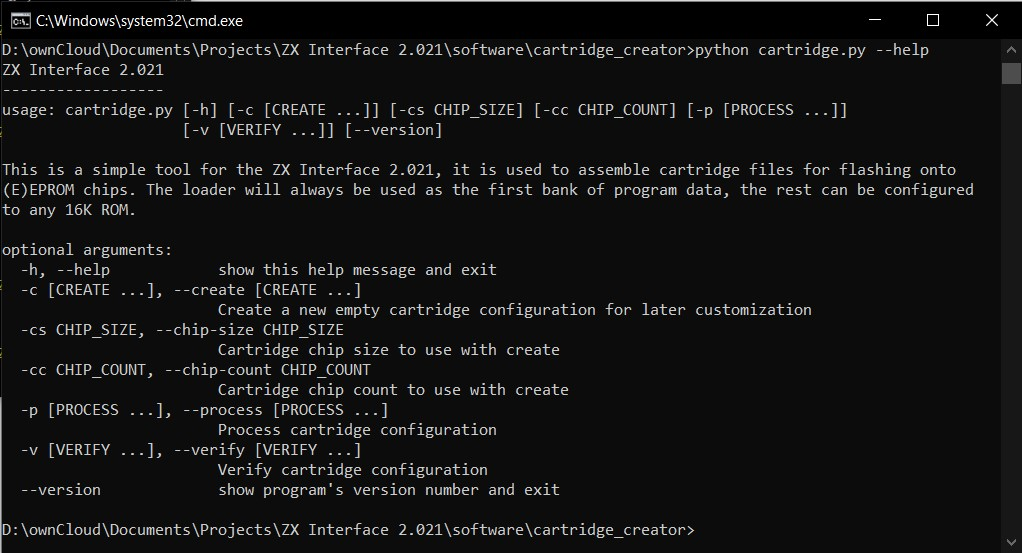
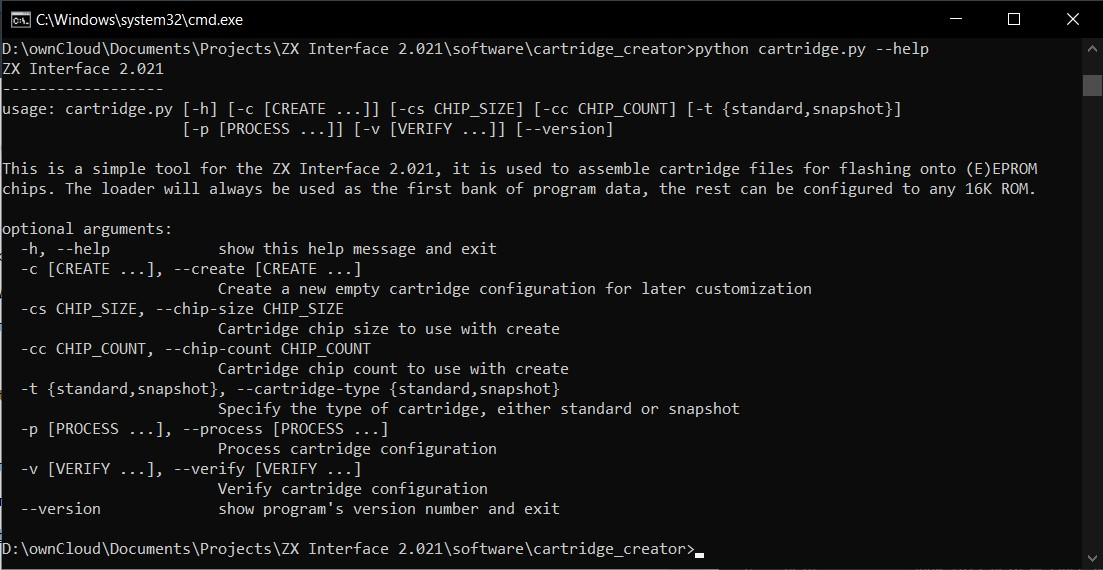
Updated README with snapshot details

diff --git a/software/cartridge_creator/README.md b/software/cartridge_creator/README.md
@@ -1,20 +1,22 @@
 # Cartridge Creator
-The *ZX Interface 2.021* supports more than a single 16K cartridge program, using a [bank switching](https://github.com/tebl/ZX-Interface-2.021/blob/main/documentation/bank_switching.md) technique implemented on the interface itself. However, the computer has no idea of how to deal with this and so the [Cartridge Loader](https://github.com/tebl/ZX-Interface-2.021/tree/main/software/cartridge_loader) program was created in order to sit in the first 16K bank and allow the user to select which of the banks the user wants to start. The *loader.rom* includes hardcoded areas set aside for things such as individual bank titles as well as other things such as fonts and a boot screen.
+The *ZX Interface 2.021* supports more than a single 16K cartridge program, using a [bank switching](https://github.com/tebl/ZX-Interface-2.021/blob/main/documentation/bank_switching.md) technique implemented on the interface itself. Unfortunately the computer has no concept of how to deal with bank switching by itself, so the we'll to add some sort of software to the machine to help it along.
 
-I did not want to change the assembly source every time I wanted to change some of these details, nor did I want the user to deal with installing an assembler and making them learning how to use it. The solution I came up with is the *Cartridge Creator*, which is for the most part just a fancy name for a [Python](https://www.python.org/) script I put together in order to automate the task of customizing a resulting cartridge.
+These are the various loader programs found within the repository, the first one is [Cartridge Loader](https://github.com/tebl/ZX-Interface-2.021/tree/main/software/cartridge_loader) and allows you to create compilations of 16K ROM files such as those released for the original ZX Interface 2 (complete with a boot screen and menu to select between them). The second one is the [Snapshot Loader](https://github.com/tebl/ZX-Interface-2.021/tree/main/software/snapshot_loader) and allows you to load and restore a snapshot file from the cartridge.
 
-Currently it supports generating a blank cartridge, with a specified count of (E)EPROMs the user want to install on their cartridge as well as the size of them (mixing sizes is not supported). You can verify an existing cartridge definition, such as those included in the repository, as well as process a definiton in order to generate Intel HEX-files that can be used when [flashing](https://github.com/tebl/ZX-Interface-2.021/blob/main/documentation/flash_eeprom.md) the chips.
+I did not want to change the assembly source every time I wanted to change out the program content or any of the settings, nor did I want the user to deal with installing an assembler and making them learning how to use it - the solution I came up with for all this is the *Cartridge Creator*. In reality it's just a fancy name for a [Python](https://www.python.org/) script, but it takes out a lot of the trial and error usually associated with trying to do all of this manually.
 
 - [1> Requirements](#1-requirements)
 - [2> Using the tools](#2-using-the-tools)
   - [2.1> Creating a blank cartridge](#21-creating-a-blank-cartridge)
+    - [2.1.1> Creating a standard cartridge](#211-creating-a-standard-cartridge)
+    - [2.1.2> Creating a snapshot cartridge](#212-creating-a-snapshot-cartridge)
   - [2.2> Verifying a cartridge](#22-verifying-a-cartridge)
   - [2.3> Processing cartridge](#23-processing-cartridge)
 
 # 1> Requirements
 The scripts do not require anything other than a standard installation of [Python](https://www.python.org/), it should be available for all of the modern operating systems. though I don't have the ability to test on anything other than my Windows laptop. There will be some Windows batch included in the project, you can use them if you prefer or you can have a look at their contents to determine what they're attempting to do. 
 
-The *Cartridge Creator* should come with everyting you need to use it, *loader,rom* as well as the fonts are from the [Cartridge Loader](https://github.com/tebl/ZX-Interface-2.021/tree/main/software/cartridge_loader) - that is also where you'll find source code can be found for these files. The batch files *assemble.bat* and *copy_loader.bat*, respectively take care of assembling the machine code as well as copy the resulting files into the expected locations. For regular use, unless you want to change parts of the code, you probably won't need to deal with these directly.
+The *Cartridge Creator* should come with everyting you need to use it, *loader.rom* as well as the fonts are from the [Cartridge Loader](https://github.com/tebl/ZX-Interface-2.021/tree/main/software/cartridge_loader) - that is also where you'll find source code can be found for these files. Likewise, there are also files from the [Snapshot Loader](https://github.com/tebl/ZX-Interface-2.021/tree/main/software/snapshot_loader) that will be used depending on the arguments used with the tool. The batch files *assemble.bat* and *copy_loader.bat*, respectively take care of assembling the machine code as well as copy the resulting files into the expected locations. For regular use, unless you want to change parts of the code, you probably don't want deal with these directly and so you wouldn't need to go through installing the assembler I'm using.
 
 # 2> Using the tools
 The *Cartridge Creator* is a command-line tool, it does not come with a graphical interface (for us Windows users starting up a new *Command Prompt*, usually just referred to as *cmd.exe*). You can get a brief descriptions of what each of the possible arguments that you can give by doing the following:
@@ -25,16 +27,19 @@ From looking at the file hierarchy, you can see that there is a subfolder called
 
 ![Cartridge Creator](https://github.com/tebl/ZX-Interface-2.021/raw/main/gallery/cartridge_creator_001.jpg)
 
-When there is a reference to the **size** of an (E)EPROM, this refers to the name of the chips that are used. When using a 27C512, you'd specify 512 here - 27C256 is 256 and so it goes. In case you were wondering how a 64K (E)EPROM came to be specified as a 512, it's mainly just marketing - listing as thousands of Kilobits (Kb) instead of KiloBytes (KB) made it look like it was significantly more than you got. Just divide the number by 8 to get a sensible number, dividing that further by 16 gets you the number of 16K banks that we can put on the chip. Note that we always use the first one for the *Cartridge Loader*, meaning that for a 512 chip we'll be able to fit 3 banks of data on it.
-
-The [ZX Cartridge 2.021](https://github.com/tebl/ZX-Interface-2.021/tree/main/ZX%20Cartridge%202021) installing two chips on the board itself, so you have the option of using 1 or 2 chips on these boards. The interface itself supports up to 4 chips, which is why the *Cartridge Creator* also support that **number** of chips.
-
 ## 2.1> Creating a blank cartridge
-The tool comes with the command-line arguments for creating a new blank cartridge, this mostly just creates the directory structure as well as a few of the files that are needed for it to generate a cartridge. Most of the contents should be considered placeholders, so after running the command you'll need to edit the file *_cartridge.ini* afterwards. You will need to specify the size of (E)EPROMs that you intend to use as well as the number of these chips that you are going to install on the cartridge.
+The tool comes with the command-line arguments for creating a new blank cartridge, this mostly just creates the directory structure as well as a few of the files that are needed for it to generate a cartridge. Most of the contents should be considered placeholders, so after running the command you'll need to edit the file *_cartridge.ini* afterwards.
+
+As there are two different loaders included in the project, there's two different cartridge types that can be created using the same tool. The **standard** cartridge are those created for use with the [Cartridge Loader](https://github.com/tebl/ZX-Interface-2.021/tree/main/software/cartridge_loader), this variant allows you to create compilations of 16K ROM files such as those released for the original ZX Interface 2 (complete with a boot screen and menu to select between them). The second is the **snapshot** cartridge, they're created using the [Snapshot Loader](https://github.com/tebl/ZX-Interface-2.021/tree/main/software/snapshot_loader) - allowing you to restore a snapshot file from a cartridge.
+
+### 2.1.1> Creating a standard cartridge
+The [ZX Cartridge 2.021](https://github.com/tebl/ZX-Interface-2.021/tree/main/ZX%20Cartridge%202021) installing two chips on the board itself, so you have the option of using 1 or 2 chips on these boards. The interface itself supports up to 4 chips, which is why the *Cartridge Creator* also support that **number** of chips. You will need to specify the size of (E)EPROMs that you intend to use as well as the number of these chips that you are going to install on the cartridge.
+
+When there is a reference to the **size** of an (E)EPROM, this refers to the name of the chips that are used. When using a 27C512, you'd specify 512 here - 27C256 is 256 etc. In case you were wondering how a 64K (E)EPROM came to be specified as a 512, it's mainly just marketing - listing as thousands of Kilobits (Kb) instead of KiloBytes (KB) made it look like it was significantly more than you got. Just divide the number by 8 to get a sensible number, dividing that further by 16 gets you the number of 16K banks that we can put on the chip. The first bank will always be used by the [Cartridge Loader](https://github.com/tebl/ZX-Interface-2.021/tree/main/software/cartridge_loader), meaning that for a 512 chip we'll be able to fit 3 banks of data on it (4 on subsequent chips).
 
 ![Cartridge Creator](https://github.com/tebl/ZX-Interface-2.021/raw/main/gallery/cartridge_creator_002.jpg)
 
-To create a new blank cartridge called *test*, using a single 27C512 chips you'd issue a command like the following (note that this will overwrite the contents if you specify a name already in use):
+To create a new standard cartridge called *test*, using a single 27C512 chips you'd issue a command like the following (note that this will overwrite the contents if you specify a name already in use):
 ```
 python cartridge.py --create test --chip-size 512 --chip-count 1
 ```
@@ -51,7 +56,25 @@ The *Cartridge Creator* also supports replacing a few of the assets used by the 
 
 **Font1** is used for the title at the top, **Font2** is used for the rest. The value here should match any of the fonts found within the fonts-directory, the case is ignored and the name corresponds to a file named *fonts/font_<name>.bin*. The fonts were adapted for the ZX Spectrum by Jim Blimey and there are pictures of each one on his [blog](https://www.jimblimey.com/blog/24-zx-spectrum-fonts/).
 
-## 2.2> Verifying a cartridge
+### 2.1.2> Creating a snapshot cartridge
+The snapshot cartridge, allows you to use ZX Spectrum [*.SNA*](https://worldofspectrum.org/faq/reference/formats.htm)-files instead of the traditional 16K ROM-files supported by the standard cartridge. What this means is that you aren't limited by the original 10 titles released for the ZX Interface 2, instead you'll have access to thousands of them instead. The [Snapshot Loader](https://github.com/tebl/ZX-Interface-2.021/tree/main/software/snapshot_loader) takes care of most of the complexity running on the ZX Spectrum itself, but the *Cartridge Creator* will take care of packaging the 48K snapshot data along with the loader itself on a single 27C512 or W27C512 (E)EPROM chip.
+
+![Cartridge Creator](https://github.com/tebl/ZX-Interface-2.021/raw/main/gallery/cartridge_creator_007.jpg)
+
+To create a new snapshot cartridge called *test*, you'd issue a command like the following (note that this will overwrite the contents if you specify that is already in use):
+```
+python cartridge.py --create test --cartridge-type snapshot
+```
+As long as the command finishes without any errors, you should now have an empty cartridge definition to work with - if you named it *test* as in the example, then you'll find the files in the directory named *cartridges/test*. You can refer to the pictures below.
+
+![Cartridge Creator](https://github.com/tebl/ZX-Interface-2.021/raw/main/gallery/cartridge_creator_013.jpg)
+![Cartridge Creator](https://github.com/tebl/ZX-Interface-2.021/raw/main/gallery/cartridge_creator_014.jpg)
+
+The file *_cartridge.ini* defines how the script works, for the most part it should be familiar to anyone who's ever taken look at a standard ini-file before (given that you're interested in old stuff, I'll take that bet). Most of the settings that are there at the moment can be considered placeholders and while you actually could run it as it is, it probably won't be all too exciting stuff apart from showing that everything works as expected.
+
+Put the snapshot-file that you want to use and copy it into the folder, then change the *FileName* option to match. The only other setting that you might need to deal with is *LoaderAddress*, it is used to override the current behavior of [Snapshot Loader](https://github.com/tebl/ZX-Interface-2.021/tree/main/software/snapshot_loader) when it comes to the final steps necessary to restore the snapshot - it is a routine that needs to be stored in RAM as we'll be banking out the cartridge in favor of the original ZX Spectrum ROM. Leaving it commented out or set to 0x0000, means that we'll try to put this routine below the system stack - possibly overwriting some parts of the program. If you experience a program where this destroys something that is needed for the game to work, you can specify a different address to use here instead. Finding a suitable location may require loading the snapshot in an emulator, then opening up the debugger or memory browser within it and look for a space that is at least 17 bytes then try again.
+
+## 0.2> Verifying a cartridge
 Somehow I ended up writing a lot of verification code to ensure that the options entered into the cartridge definition, for a description of most of the stuff that goes into them - see [Creating a blank cartridge](#21-creating-a-blank-cartridge). The idea is that you run through the verification routines and it spits out most of your errors in an understandable format.
 
 The following command verifies the cartridge definition for a cartridge named *test*:
@@ -73,3 +96,5 @@ python cartridge.py --process test
 The output from running this command on my system is shown below. The most important part is to ensure that the output is generated without any errors, for the most part you just check that most have a result listed as *OK*. The easiest is for the most part is to look for the part that reads *(E)EPROM image* near the end and ensure that it says *Size OK*, after that it'll have listed the status of the operation that took care of generating some Intel HEX files for use with your (E)EPROM Programmer.
 
 ![Cartridge Creator](https://github.com/tebl/ZX-Interface-2.021/raw/main/gallery/cartridge_creator_006.jpg)
+
+Note that depending on the type of cartridge specified, you may have more than one output file generated and you should in those cases use the same size of (E)EPROMs and in the capacity specified (mixing of sizes is not supported by any of the loaders). As previously mentioned, head on over to [flashing (E)EPROMs](https://github.com/tebl/ZX-Interface-2.021/blob/main/documentation/flash_eeprom.md) for instructions on using one of the more common (E)EPROM Programmers (Minipro TL866).
